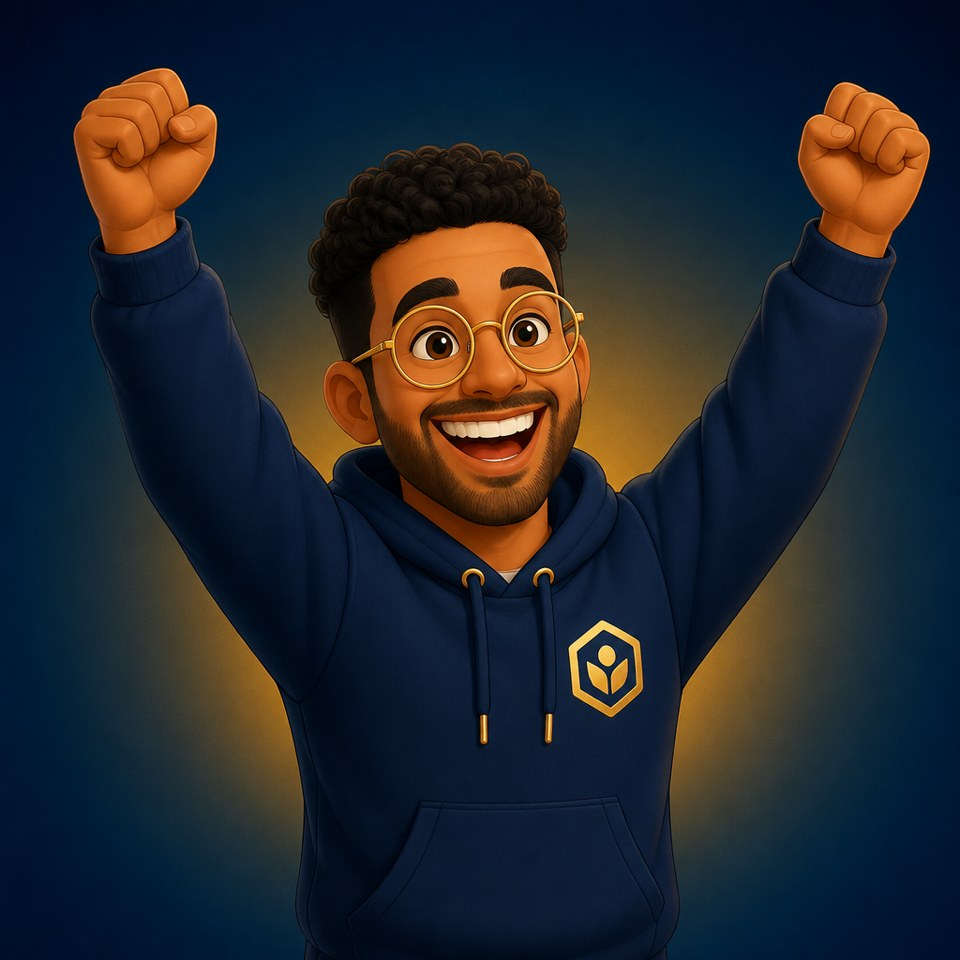
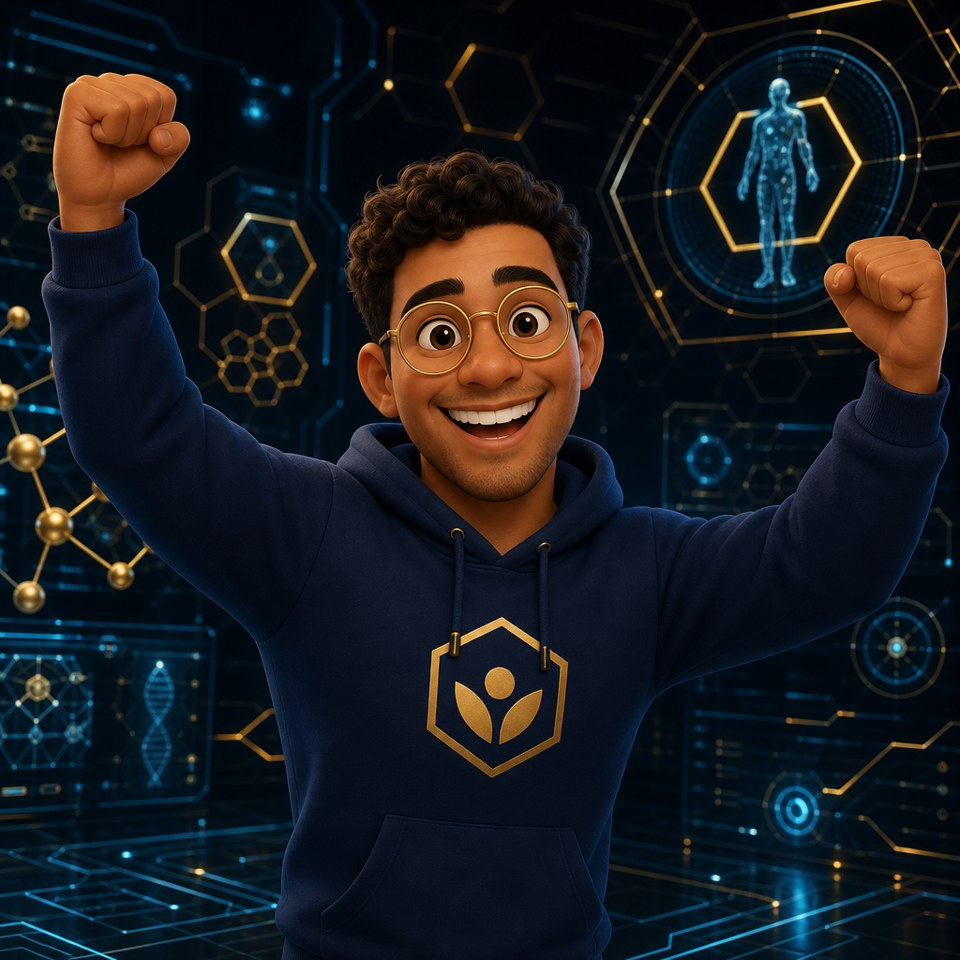
Put Theo on a tech HUD background instead of a studio gradient.
Portraits now sit on a dark lab with hex grid and circuit traces. Telegram cards full-bleed that backdrop, then add scanlines, gold HUD brackets, and a left scrim for the caption.

diff --git a/truehold-wellness/wellness_agent/inventory/build_agent.py b/truehold-wellness/wellness_agent/inventory/build_agent.py
@@ -8,22 +8,21 @@ from __future__ import annotations
 
 from pathlib import Path
 
-from PIL import Image, ImageDraw
+from PIL import Image, ImageDraw, ImageFilter
 
 from wellness_agent.inventory.graphics import (
     ASSETS,
     CREAM,
     GOLD,
     GOLD_SOFT,
-    NAVY,
     NAVY_DEEP,
     WHITE,
     fit,
     font,
     gold_bars,
-    molecule_overlay,
     paste_logo,
     paste_overlay,
+    tech_hud_overlay,
     vertical_gradient,
 )
 
@@ -50,10 +49,7 @@ def agent_card_path(pose: str) -> Path:
 
 
 def agent_path(pose: str = "wave") -> Path:
-    path = agent_card_path(pose)
-    if not path.is_file():
-        return build_agent_card(pose)
-    return path
+    return build_agent_card(pose)
 
 
 def ensure_agent() -> list[Path]:
@@ -64,25 +60,27 @@ def ensure_agent() -> list[Path]:
 def build_agent_card(pose: str) -> Path:
     CARD_DIR.mkdir(parents=True, exist_ok=True)
     name = pose if pose in POSES else "wave"
-    image = vertical_gradient(SIZE, NAVY_DEEP, NAVY)
-    image = paste_overlay(image, molecule_overlay(SIZE, seed=21, origin=(980, 360), scale=1.05))
     portrait = _load_portrait(name)
     if portrait is not None:
-        image = _paste_portrait(image, portrait)
+        image = _cover(portrait, SIZE)
+    else:
+        image = vertical_gradient(SIZE, (2, 8, 18), NAVY_DEEP)
+    image = _left_scrim(image)
+    image = paste_overlay(image, tech_hud_overlay(SIZE, seed=8 + POSES.index(name)))
     draw = ImageDraw.Draw(image)
-    gold_bars(draw, SIZE, thickness=16)
+    gold_bars(draw, SIZE, thickness=10)
     kicker, line = KICKERS[name]
-    draw.text((56, 72), "TRUEHOLD WELLNESS", font=font(26, bold=True), fill=GOLD)
-    draw.text((56, 128), kicker, font=font(72, bold=True), fill=WHITE)
+    draw.text((56, 72), "TRUEHOLD WELLNESS  ·  TECH CONCIERGE", font=font(22, bold=True), fill=GOLD)
+    draw.text((56, 120), kicker, font=font(72, bold=True), fill=WHITE)
     draw.multiline_text(
-        (56, 230),
-        fit(line, font(32), draw, 560),
-        font=font(32),
+        (56, 222),
+        fit(line, font(30), draw, 520),
+        font=font(30),
         fill=CREAM,
         spacing=8,
     )
-    draw.text((56, 620), "Colorful buttons below  ·  Educational only", font=font(24, bold=True), fill=GOLD_SOFT)
-    paste_logo(image, box=120, margin=36)
+    draw.text((56, 620), "HUD live  ·  Tap a button  ·  Educational only", font=font(22, bold=True), fill=GOLD_SOFT)
+    paste_logo(image, box=108, margin=32)
     dest = agent_card_path(name)
     image.save(dest, format="JPEG", quality=90)
     return dest
@@ -95,16 +93,26 @@ def _load_portrait(pose: str) -> Image.Image | None:
     return Image.open(path).convert("RGB")
 
 
-def _paste_portrait(base: Image.Image, portrait: Image.Image) -> Image.Image:
-    height = SIZE[1] - 32
-    portrait = portrait.copy()
-    portrait.thumbnail((height, height))
-    x = SIZE[0] - portrait.size[0] - 24
-    y = (SIZE[1] - portrait.size[1]) // 2
-    mask = Image.new("L", portrait.size, 0)
-    ImageDraw.Draw(mask).rounded_rectangle((0, 0, *portrait.size), radius=36, fill=255)
-    base.paste(portrait, (x, y), mask)
-    return base
+def _cover(image: Image.Image, size: tuple[int, int]) -> Image.Image:
+    width, height = size
+    src_w, src_h = image.size
+    scale = max(width / src_w, height / src_h)
+    resized = image.resize((int(src_w * scale), int(src_h * scale)), Image.Resampling.LANCZOS)
+    left = max(resized.size[0] - width, 0) * 0.62
+    top = max(resized.size[1] - height, 0) * 0.12
+    box = (int(left), int(top), int(left) + width, int(top) + height)
+    return resized.crop(box)
+
+
+def _left_scrim(image: Image.Image) -> Image.Image:
+    width, height = image.size
+    scrim = Image.new("RGBA", (width, height), (0, 0, 0, 0))
+    draw = ImageDraw.Draw(scrim)
+    for x in range(0, int(width * 0.62)):
+        t = 1 - (x / (width * 0.62))
+        alpha = int(210 * (t**1.15))
+        draw.line((x, 0, x, height), fill=(3, 10, 24, alpha), width=1)
+    return paste_overlay(image, scrim.filter(ImageFilter.GaussianBlur(radius=6)))
 
 
 def main() -> int:

diff --git a/truehold-wellness/wellness_agent/inventory/graphics.py b/truehold-wellness/wellness_agent/inventory/graphics.py
@@ -125,6 +125,52 @@ def molecule_overlay(
     return layer.filter(ImageFilter.GaussianBlur(radius=0.4))
 
 
+def tech_hud_overlay(size: tuple[int, int], *, seed: int = 4) -> Image.Image:
+    """Circuit traces, hex HUD, scanlines, and corner brackets over a dark field."""
+    width, height = size
+    layer = Image.new("RGBA", size, (0, 0, 0, 0))
+    draw = ImageDraw.Draw(layer)
+    rng = random.Random(seed)
+    # Scanlines
+    for y in range(0, height, 4):
+        draw.line((0, y, width, y), fill=(92, 174, 196, 18), width=1)
+    # Hex grid
+    radius = min(width, height) * 0.07
+    for col in range(-1, int(width / (radius * 1.5)) + 2):
+        for row in range(-1, int(height / (radius * 1.7)) + 2):
+            cx = col * radius * 1.55
+            cy = row * radius * math.sqrt(3) + (radius * 0.78 if col % 2 else 0)
+            verts = _hex_vertices(cx, cy, radius * 0.9)
+            draw.line(verts + [verts[0]], fill=(*TEAL, 28), width=1)
+    # Circuit traces
+    for _ in range(28):
+        x = rng.randint(0, width)
+        y = rng.randint(0, height)
+        length = rng.randint(40, 180)
+        horizontal = rng.random() > 0.45
+        color = (*GOLD, 70) if rng.random() > 0.5 else (*TEAL, 80)
+        if horizontal:
+            draw.line((x, y, x + length, y), fill=color, width=2)
+            draw.line((x + length, y, x + length, y + rng.choice([-1, 1]) * rng.randint(16, 70)), fill=color, width=2)
+        else:
+            draw.line((x, y, x, y + length), fill=color, width=2)
+        r = 3
+        draw.ellipse((x - r, y - r, x + r, y + r), fill=(*GOLD, 140))
+    # Corner HUD brackets
+    inset, arm, thick = 28, 54, 3
+    bracket = (*GOLD, 200)
+    corners = (
+        (inset, inset, 1, 1),
+        (width - inset, inset, -1, 1),
+        (inset, height - inset, 1, -1),
+        (width - inset, height - inset, -1, -1),
+    )
+    for x, y, dx, dy in corners:
+        draw.line((x, y, x + arm * dx, y), fill=bracket, width=thick)
+        draw.line((x, y, x, y + arm * dy), fill=bracket, width=thick)
+    return layer
+
+
 def paste_overlay(base: Image.Image, overlay: Image.Image) -> Image.Image:
     if base.mode != "RGBA":
         merged = base.convert("RGBA")

diff --git a/truehold-wellness/tests/test_telegram_inbound.py b/truehold-wellness/tests/test_telegram_inbound.py
@@ -133,8 +133,9 @@ def test_hello_after_start_does_not_repeat_intro():
     assert photos
     assert "wave" in photos[0]["photo"]
     blob = "\n".join((item.get("text") or item.get("caption") or "") for item in tg.sent).lower()
-    assert "theo" in blob or "good to see you" in blob or "hi again" in blob
+    assert blob.strip()
     assert "send /menu" not in blob
+    assert "<b>" in "\n".join((item.get("text") or item.get("caption") or "") for item in tg.sent)
 
 
 def test_hello_plays_intro_once_then_does_not_repeat():

diff --git a/truehold-wellness/tests/test_theo.py b/truehold-wellness/tests/test_theo.py
@@ -39,7 +39,13 @@ class _FakeTelegram:
 
 
 def test_theo_portraits_exist_for_each_pose():
+    from wellness_agent.inventory.graphics import tech_hud_overlay
+
     ensure_agent()
+    hud = tech_hud_overlay((200, 120), seed=1)
+    assert hud.mode == "RGBA"
+    extrema = hud.getextrema()
+    assert extrema[-1][1] > 0
     for pose in POSES:
         assert portrait_path(pose).is_file()
         card = agent_path(pose)
